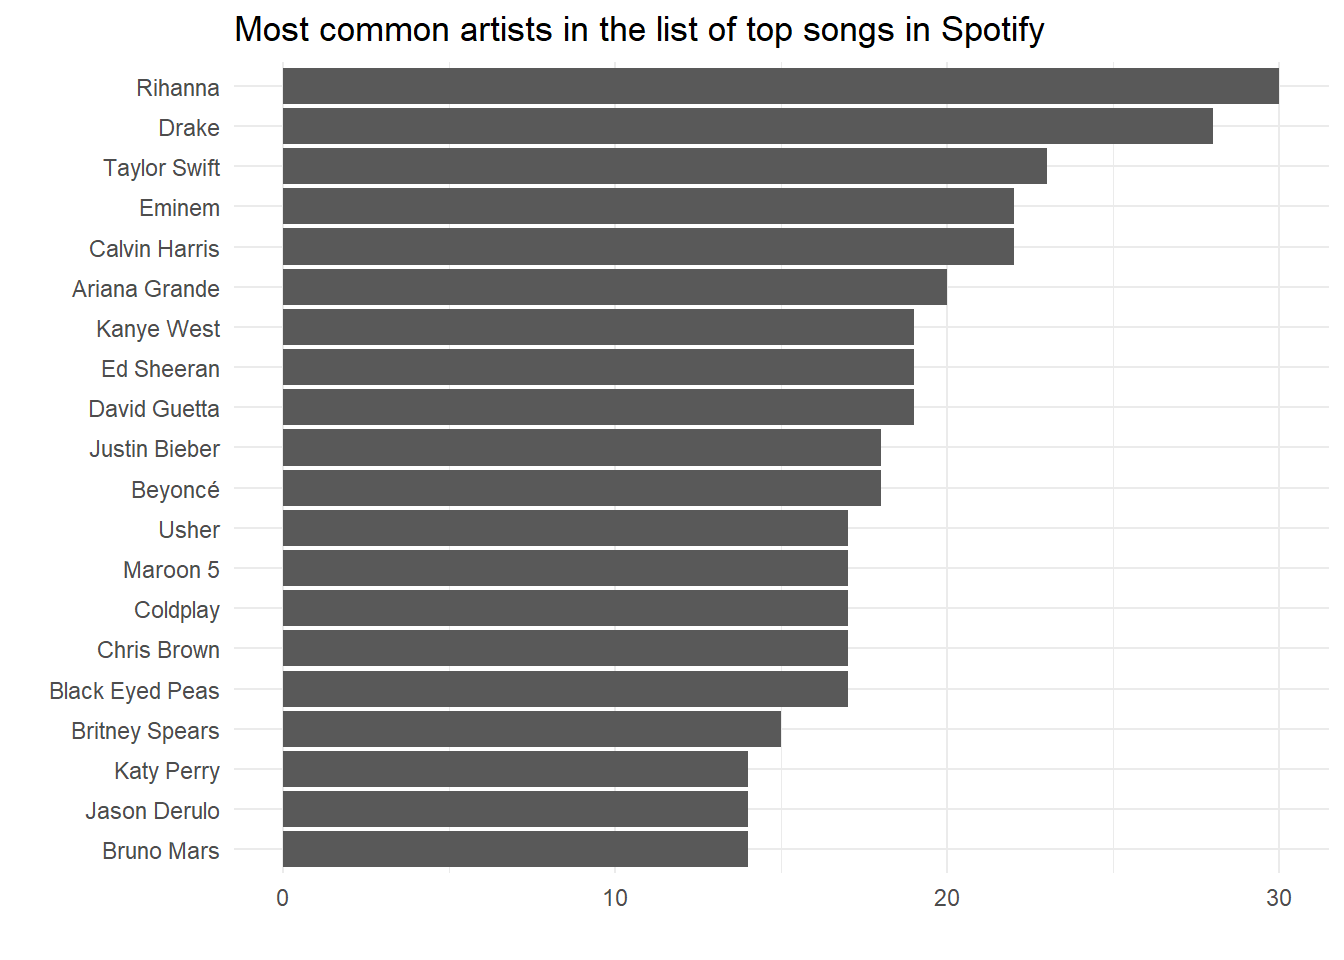
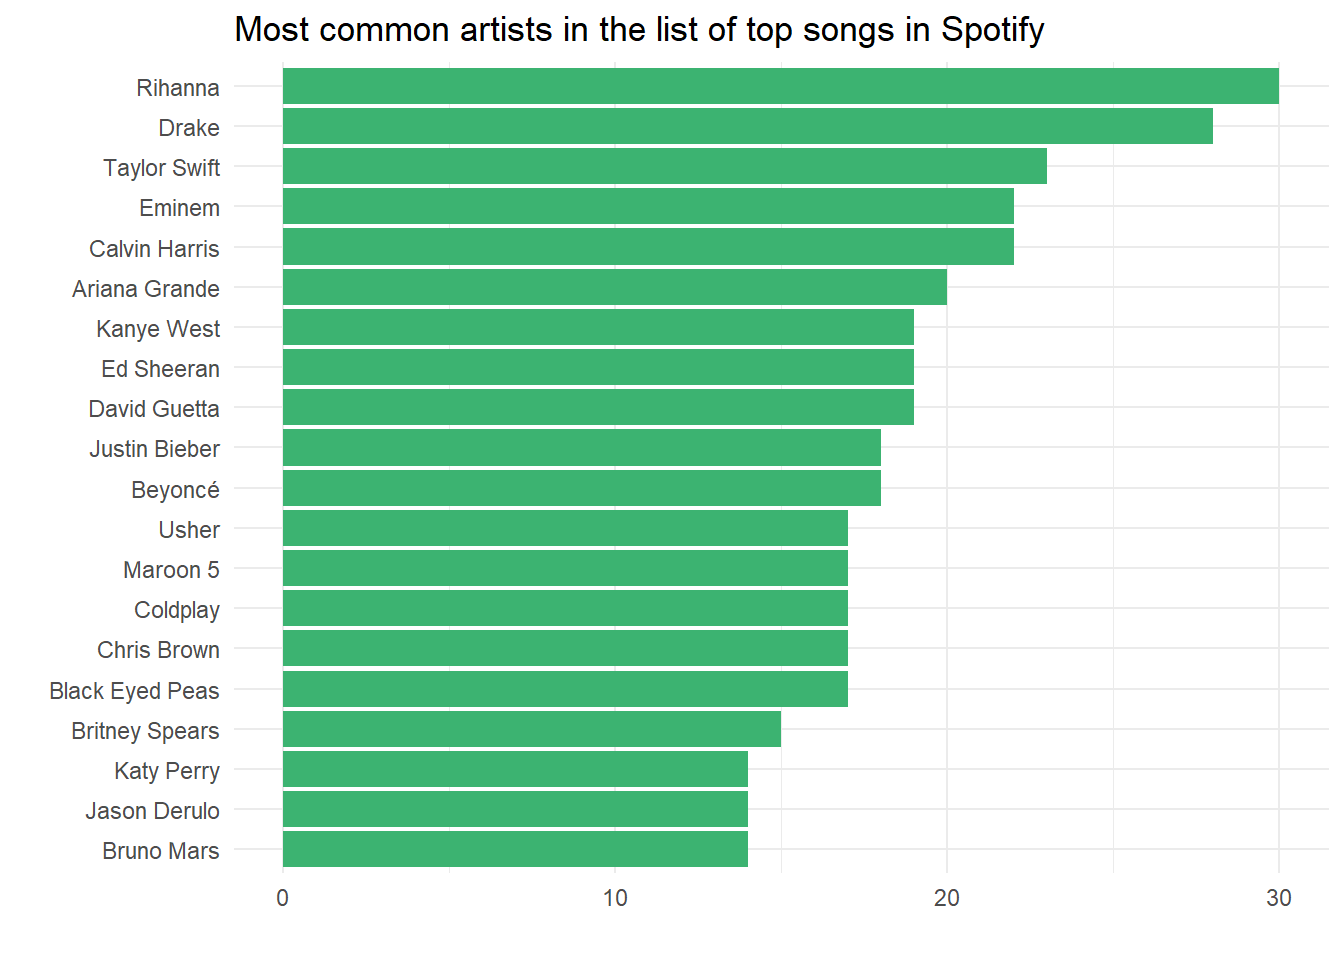
Added correlation matrix and rearranged contents

diff --git a/_site/eda.html b/_site/eda.html
@@ -150,18 +150,21 @@ pre > code.sourceCode > span > a:first-child::before { text-decoration: underlin
     <h2 id="toc-title">On this page</h2>
    
   <ul>
-  <li><a href="#introduction-and-data" id="toc-introduction-and-data" class="nav-link active" data-scroll-target="#introduction-and-data">Introduction and data</a>
+  <li><a href="#introduction-to-data" id="toc-introduction-to-data" class="nav-link active" data-scroll-target="#introduction-to-data">Introduction to data</a>
   <ul class="collapse">
-  <li><a href="#description-of-data" id="toc-description-of-data" class="nav-link" data-scroll-target="#description-of-data">Description of data</a></li>
+  <li><a href="#description-of-data" id="toc-description-of-data" class="nav-link" data-scroll-target="#description-of-data">Description of data</a>
+  <ul class="collapse">
   <li><a href="#glimpse-of-data" id="toc-glimpse-of-data" class="nav-link" data-scroll-target="#glimpse-of-data">Glimpse of data</a></li>
+  </ul></li>
   </ul></li>
   <li><a href="#exploratory-data-analysis" id="toc-exploratory-data-analysis" class="nav-link" data-scroll-target="#exploratory-data-analysis">Exploratory data analysis</a>
   <ul class="collapse">
-  <li><a href="#top-artists" id="toc-top-artists" class="nav-link" data-scroll-target="#top-artists">Top artists</a></li>
-  <li><a href="#top-genres" id="toc-top-genres" class="nav-link" data-scroll-target="#top-genres">Top genres</a></li>
-  <li><a href="#most-common-words-in-titles" id="toc-most-common-words-in-titles" class="nav-link" data-scroll-target="#most-common-words-in-titles">Most common words in titles</a></li>
+  <li><a href="#tldr" id="toc-tldr" class="nav-link" data-scroll-target="#tldr">TL;DR</a></li>
+  <li><a href="#frequency-of-artist-appearance" id="toc-frequency-of-artist-appearance" class="nav-link" data-scroll-target="#frequency-of-artist-appearance">Frequency of artist appearance</a></li>
+  <li><a href="#top-song-genres" id="toc-top-song-genres" class="nav-link" data-scroll-target="#top-song-genres">Top song genres</a></li>
+  <li><a href="#most-common-words-in-song-titles" id="toc-most-common-words-in-song-titles" class="nav-link" data-scroll-target="#most-common-words-in-song-titles">Most common words in song titles</a></li>
   <li><a href="#distribution-of-year" id="toc-distribution-of-year" class="nav-link" data-scroll-target="#distribution-of-year">Distribution of year</a></li>
-  <li><a href="#distribution-of-metrics" id="toc-distribution-of-metrics" class="nav-link" data-scroll-target="#distribution-of-metrics">Distribution of metrics</a></li>
+  <li><a href="#distribution-of-song-metrics" id="toc-distribution-of-song-metrics" class="nav-link" data-scroll-target="#distribution-of-song-metrics">Distribution of song metrics</a></li>
   </ul></li>
   <li><a href="#data-limitations" id="toc-data-limitations" class="nav-link" data-scroll-target="#data-limitations">Data limitations</a></li>
   </ul>
@@ -188,18 +191,21 @@ pre > code.sourceCode > span > a:first-child::before { text-decoration: underlin
 </header>
 
 <div class="cell">
-<div class="sourceCode cell-code" id="cb1"><pre class="sourceCode r code-with-copy"><code class="sourceCode r"><span id="cb1-1"><a href="#cb1-1" aria-hidden="true" tabindex="-1"></a><span class="fu">library</span>(tidyverse)</span>
-<span id="cb1-2"><a href="#cb1-2" aria-hidden="true" tabindex="-1"></a><span class="fu">library</span>(skimr)</span>
-<span id="cb1-3"><a href="#cb1-3" aria-hidden="true" tabindex="-1"></a></span>
-<span id="cb1-4"><a href="#cb1-4" aria-hidden="true" tabindex="-1"></a><span class="fu">theme_set</span>(<span class="fu">theme_minimal</span>())</span></code><button title="Copy to Clipboard" class="code-copy-button"><i class="bi"></i></button></pre></div>
+<div class="sourceCode cell-code" id="cb1"><pre class="sourceCode r code-with-copy"><code class="sourceCode r"><span id="cb1-1"><a href="#cb1-1" aria-hidden="true" tabindex="-1"></a><span class="co"># Load relevant packages</span></span>
+<span id="cb1-2"><a href="#cb1-2" aria-hidden="true" tabindex="-1"></a><span class="fu">library</span>(tidyverse)</span>
+<span id="cb1-3"><a href="#cb1-3" aria-hidden="true" tabindex="-1"></a><span class="fu">library</span>(skimr)</span>
+<span id="cb1-4"><a href="#cb1-4" aria-hidden="true" tabindex="-1"></a><span class="fu">library</span>(corrplot)</span>
+<span id="cb1-5"><a href="#cb1-5" aria-hidden="true" tabindex="-1"></a></span>
+<span id="cb1-6"><a href="#cb1-6" aria-hidden="true" tabindex="-1"></a><span class="co"># Set minimalistic theme</span></span>
+<span id="cb1-7"><a href="#cb1-7" aria-hidden="true" tabindex="-1"></a><span class="fu">theme_set</span>(<span class="fu">theme_minimal</span>())</span></code><button title="Copy to Clipboard" class="code-copy-button"><i class="bi"></i></button></pre></div>
 </div>
-<section id="introduction-and-data" class="level2">
-<h2 class="anchored" data-anchor-id="introduction-and-data">Introduction and data</h2>
-<section id="description-of-data" class="level3">
-<h3 class="anchored" data-anchor-id="description-of-data">Description of data</h3>
+<section id="introduction-to-data" class="level1">
+<h1>Introduction to data</h1>
+<section id="description-of-data" class="level2">
+<h2 class="anchored" data-anchor-id="description-of-data">Description of data</h2>
 <p>We will be analyzing the top 100 songs on Spotify every year, from 2000 - 2023.</p>
 <p>The dataset was taken from Kaggle. The data was extracted by Conor Van Eden using Organize Your Music. More details <a href="https://www.kaggle.com/datasets/conorvaneden/best-songs-on-spotify-for-every-year-2000-2023?resource=download">here</a>.</p>
-</section>
+<p>No private information is being used: everything is public information. Furthermore, not much preprocessing was done (or explained) on the data.</p>
 <section id="glimpse-of-data" class="level3">
 <h3 class="anchored" data-anchor-id="glimpse-of-data">Glimpse of data</h3>
 <p>Let’s take a look at the dataset using <code>skim</code>.</p>
@@ -488,10 +494,14 @@ pre > code.sourceCode > span > a:first-child::before { text-decoration: underlin
 <p>We see that we have data on 14 variables: three are character-type and 11 are numeric-type. We have access to some basic information about the songs, including artist, release year, and genre, as well as some metrics, including <code>danceability</code> and <code>speechiness</code>.</p>
 </section>
 </section>
-<section id="exploratory-data-analysis" class="level2">
-<h2 class="anchored" data-anchor-id="exploratory-data-analysis">Exploratory data analysis</h2>
-<section id="top-artists" class="level3">
-<h3 class="anchored" data-anchor-id="top-artists">Top artists</h3>
+</section>
+<section id="exploratory-data-analysis" class="level1">
+<h1>Exploratory data analysis</h1>
+<section id="tldr" class="level2">
+<h2 class="anchored" data-anchor-id="tldr">TL;DR</h2>
+</section>
+<section id="frequency-of-artist-appearance" class="level2">
+<h2 class="anchored" data-anchor-id="frequency-of-artist-appearance">Frequency of artist appearance</h2>
 <div class="cell">
 <div class="sourceCode cell-code" id="cb3"><pre class="sourceCode r code-with-copy"><code class="sourceCode r"><span id="cb3-1"><a href="#cb3-1" aria-hidden="true" tabindex="-1"></a>top_artists <span class="ot">&lt;-</span> songs <span class="sc">%&gt;%</span> </span>
 <span id="cb3-2"><a href="#cb3-2" aria-hidden="true" tabindex="-1"></a>  <span class="fu">group_by</span>(artist) <span class="sc">%&gt;%</span> </span>
@@ -501,7 +511,7 @@ pre > code.sourceCode > span > a:first-child::before { text-decoration: underlin
 <span id="cb3-6"><a href="#cb3-6" aria-hidden="true" tabindex="-1"></a></span>
 <span id="cb3-7"><a href="#cb3-7" aria-hidden="true" tabindex="-1"></a>top_artists <span class="sc">%&gt;%</span> </span>
 <span id="cb3-8"><a href="#cb3-8" aria-hidden="true" tabindex="-1"></a>  <span class="fu">ggplot</span>(<span class="fu">aes</span>(<span class="at">y =</span> <span class="fu">fct_reorder</span>(artist, n), <span class="at">x =</span> n)) <span class="sc">+</span></span>
-<span id="cb3-9"><a href="#cb3-9" aria-hidden="true" tabindex="-1"></a>  <span class="fu">geom_bar</span>(<span class="at">stat =</span> <span class="st">"identity"</span>) <span class="sc">+</span></span>
+<span id="cb3-9"><a href="#cb3-9" aria-hidden="true" tabindex="-1"></a>  <span class="fu">geom_bar</span>(<span class="at">stat =</span> <span class="st">"identity"</span>, <span class="at">fill =</span> <span class="st">"mediumseagreen"</span>) <span class="sc">+</span></span>
 <span id="cb3-10"><a href="#cb3-10" aria-hidden="true" tabindex="-1"></a>  <span class="fu">labs</span>(</span>
 <span id="cb3-11"><a href="#cb3-11" aria-hidden="true" tabindex="-1"></a>    <span class="at">title =</span> <span class="st">"Most common artists in the list of top songs in Spotify"</span>,</span>
 <span id="cb3-12"><a href="#cb3-12" aria-hidden="true" tabindex="-1"></a>    <span class="at">y =</span> <span class="st">""</span>,</span>
@@ -512,7 +522,7 @@ pre > code.sourceCode > span > a:first-child::before { text-decoration: underlin
 <p><img src="eda_files/figure-html/unnamed-chunk-3-1.png" class="img-fluid" width="672"></p>
 </div>
 </div>
-<p>We see that Rihanna, Drake, and Taylor Swift are the three artists with the most mentions. Here, mention refers to having a song categorized as “top” on Spotify in the 2003-2023 period. It is important to note that one song can be mentioned as “top” multiple times. As seen below, Rihanna’s Diamonds and Taylor Swift’s I Knew You Were Trouble were made it to the list of top songs twice.</p>
+<p>We see that Rihanna, Drake, and Taylor Swift are the three artists with the most mentions. Here, a mention refers to having a song categorized as “top” on Spotify in the 2003-2023 period. It is important to note that one song can be mentioned as “top” multiple times. As seen below, Rihanna’s Diamonds and Taylor Swift’s I Knew You Were Trouble were made it to the list of top songs twice.</p>
 <div class="cell">
 <div class="sourceCode cell-code" id="cb4"><pre class="sourceCode r code-with-copy"><code class="sourceCode r"><span id="cb4-1"><a href="#cb4-1" aria-hidden="true" tabindex="-1"></a>songs <span class="sc">%&gt;%</span> </span>
 <span id="cb4-2"><a href="#cb4-2" aria-hidden="true" tabindex="-1"></a>  <span class="fu">filter</span>(artist <span class="sc">%in%</span> <span class="fu">c</span>(<span class="st">"Rihanna"</span>, <span class="st">"Drake"</span>, <span class="st">"Taylor Swift"</span>)) <span class="sc">%&gt;%</span> </span>
@@ -534,8 +544,8 @@ pre > code.sourceCode > span > a:first-child::before { text-decoration: underlin
 </div>
 </div>
 </section>
-<section id="top-genres" class="level3">
-<h3 class="anchored" data-anchor-id="top-genres">Top genres</h3>
+<section id="top-song-genres" class="level2">
+<h2 class="anchored" data-anchor-id="top-song-genres">Top song genres</h2>
 <div class="cell">
 <div class="sourceCode cell-code" id="cb6"><pre class="sourceCode r code-with-copy"><code class="sourceCode r"><span id="cb6-1"><a href="#cb6-1" aria-hidden="true" tabindex="-1"></a>songs <span class="sc">%&gt;%</span> </span>
 <span id="cb6-2"><a href="#cb6-2" aria-hidden="true" tabindex="-1"></a>  <span class="fu">group_by</span>(<span class="st">`</span><span class="at">top genre</span><span class="st">`</span>) <span class="sc">%&gt;%</span> </span>
@@ -543,7 +553,7 @@ pre > code.sourceCode > span > a:first-child::before { text-decoration: underlin
 <span id="cb6-4"><a href="#cb6-4" aria-hidden="true" tabindex="-1"></a>  <span class="fu">arrange</span>(<span class="fu">desc</span>(n)) <span class="sc">%&gt;%</span> </span>
 <span id="cb6-5"><a href="#cb6-5" aria-hidden="true" tabindex="-1"></a>  <span class="fu">head</span>(<span class="dv">20</span>) <span class="sc">%&gt;%</span> </span>
 <span id="cb6-6"><a href="#cb6-6" aria-hidden="true" tabindex="-1"></a>  <span class="fu">ggplot</span>(<span class="fu">aes</span>(<span class="at">y =</span> <span class="fu">fct_reorder</span>(<span class="st">`</span><span class="at">top genre</span><span class="st">`</span>, n), <span class="at">x =</span> n)) <span class="sc">+</span></span>
-<span id="cb6-7"><a href="#cb6-7" aria-hidden="true" tabindex="-1"></a>  <span class="fu">geom_bar</span>(<span class="at">stat =</span> <span class="st">"identity"</span>) <span class="sc">+</span></span>
+<span id="cb6-7"><a href="#cb6-7" aria-hidden="true" tabindex="-1"></a>  <span class="fu">geom_bar</span>(<span class="at">stat =</span> <span class="st">"identity"</span>, <span class="at">fill =</span> <span class="st">"mediumseagreen"</span>) <span class="sc">+</span></span>
 <span id="cb6-8"><a href="#cb6-8" aria-hidden="true" tabindex="-1"></a>  <span class="fu">labs</span>(</span>
 <span id="cb6-9"><a href="#cb6-9" aria-hidden="true" tabindex="-1"></a>    <span class="at">title =</span> <span class="st">"Most common genres in the list of top songs in Spotify"</span>,</span>
 <span id="cb6-10"><a href="#cb6-10" aria-hidden="true" tabindex="-1"></a>    <span class="at">y =</span> <span class="st">""</span>,</span>
@@ -556,8 +566,8 @@ pre > code.sourceCode > span > a:first-child::before { text-decoration: underlin
 </div>
 <p>We see that “dance pop” and “pop” are the two most common genres within top songs by a large margin. It might be intersting to see what kind of variations exist withing these two genres when it comes to other song metrics like <code>danceability</code> and <code>valence</code>.</p>
 </section>
-<section id="most-common-words-in-titles" class="level3">
-<h3 class="anchored" data-anchor-id="most-common-words-in-titles">Most common words in titles</h3>
+<section id="most-common-words-in-song-titles" class="level2">
+<h2 class="anchored" data-anchor-id="most-common-words-in-song-titles">Most common words in song titles</h2>
 <div class="cell">
 <div class="sourceCode cell-code" id="cb7"><pre class="sourceCode r code-with-copy"><code class="sourceCode r"><span id="cb7-1"><a href="#cb7-1" aria-hidden="true" tabindex="-1"></a>songs <span class="sc">%&gt;%</span> </span>
 <span id="cb7-2"><a href="#cb7-2" aria-hidden="true" tabindex="-1"></a>  <span class="fu">select</span>(title) <span class="sc">%&gt;%</span> </span>
@@ -571,27 +581,33 @@ pre > code.sourceCode > span > a:first-child::before { text-decoration: underlin
 <span id="cb7-10"><a href="#cb7-10" aria-hidden="true" tabindex="-1"></a>  <span class="fu">arrange</span>(<span class="fu">desc</span>(n)) <span class="sc">%&gt;%</span> </span>
 <span id="cb7-11"><a href="#cb7-11" aria-hidden="true" tabindex="-1"></a>  <span class="fu">head</span>(<span class="dv">30</span>) <span class="sc">%&gt;%</span> </span>
 <span id="cb7-12"><a href="#cb7-12" aria-hidden="true" tabindex="-1"></a>  <span class="fu">ggplot</span>(<span class="fu">aes</span>(<span class="at">y =</span> <span class="fu">fct_reorder</span>(title, n), <span class="at">x =</span> n)) <span class="sc">+</span></span>
-<span id="cb7-13"><a href="#cb7-13" aria-hidden="true" tabindex="-1"></a>  <span class="fu">geom_bar</span>(<span class="at">stat =</span> <span class="st">"identity"</span>)</span></code><button title="Copy to Clipboard" class="code-copy-button"><i class="bi"></i></button></pre></div>
+<span id="cb7-13"><a href="#cb7-13" aria-hidden="true" tabindex="-1"></a>  <span class="fu">geom_bar</span>(<span class="at">stat =</span> <span class="st">"identity"</span>, <span class="at">fill =</span> <span class="st">"mediumseagreen"</span>) <span class="sc">+</span></span>
+<span id="cb7-14"><a href="#cb7-14" aria-hidden="true" tabindex="-1"></a>  <span class="fu">labs</span>(</span>
+<span id="cb7-15"><a href="#cb7-15" aria-hidden="true" tabindex="-1"></a>    <span class="at">x =</span> <span class="st">""</span>,</span>
+<span id="cb7-16"><a href="#cb7-16" aria-hidden="true" tabindex="-1"></a>    <span class="at">y =</span> <span class="st">"Word"</span>,</span>
+<span id="cb7-17"><a href="#cb7-17" aria-hidden="true" tabindex="-1"></a>    <span class="at">title =</span> <span class="st">"Most common words found in song titles"</span></span>
+<span id="cb7-18"><a href="#cb7-18" aria-hidden="true" tabindex="-1"></a>  )</span></code><button title="Copy to Clipboard" class="code-copy-button"><i class="bi"></i></button></pre></div>
 <div class="cell-output-display">
 <p><img src="eda_files/figure-html/unnamed-chunk-6-1.png" class="img-fluid" width="672"></p>
 </div>
 </div>
 <p>We see that the word “feat” is very common - we love to see collaboration! Furthermore, we also see that the word “you,” “me,” and “love” are pretty common. It might be interesting to analyze this further.</p>
 </section>
-<section id="distribution-of-year" class="level3">
-<h3 class="anchored" data-anchor-id="distribution-of-year">Distribution of year</h3>
+<section id="distribution-of-year" class="level2">
+<h2 class="anchored" data-anchor-id="distribution-of-year">Distribution of year</h2>
 <div class="cell">
 <div class="sourceCode cell-code" id="cb8"><pre class="sourceCode r code-with-copy"><code class="sourceCode r"><span id="cb8-1"><a href="#cb8-1" aria-hidden="true" tabindex="-1"></a>songs <span class="sc">%&gt;%</span> </span>
 <span id="cb8-2"><a href="#cb8-2" aria-hidden="true" tabindex="-1"></a>  <span class="fu">ggplot</span>(<span class="fu">aes</span>(<span class="at">x =</span> year)) <span class="sc">+</span></span>
-<span id="cb8-3"><a href="#cb8-3" aria-hidden="true" tabindex="-1"></a>  <span class="fu">geom_histogram</span>() <span class="sc">+</span></span>
+<span id="cb8-3"><a href="#cb8-3" aria-hidden="true" tabindex="-1"></a>  <span class="fu">geom_histogram</span>(<span class="at">fill =</span> <span class="st">"mediumseagreen"</span>) <span class="sc">+</span></span>
 <span id="cb8-4"><a href="#cb8-4" aria-hidden="true" tabindex="-1"></a>  <span class="fu">theme_minimal</span>()</span></code><button title="Copy to Clipboard" class="code-copy-button"><i class="bi"></i></button></pre></div>
 <div class="cell-output-display">
 <p><img src="eda_files/figure-html/unnamed-chunk-7-1.png" class="img-fluid" width="672"></p>
 </div>
 </div>
+<p>We see that there is a somewhat symmetric distribution when it comes to the release years of top songs. However, we see some “spikes” around 2004, 2007, 2011, and 2016. It might be interesting to dive deeper to see reasons for these “spikes.”</p>
 </section>
-<section id="distribution-of-metrics" class="level3">
-<h3 class="anchored" data-anchor-id="distribution-of-metrics">Distribution of metrics</h3>
+<section id="distribution-of-song-metrics" class="level2">
+<h2 class="anchored" data-anchor-id="distribution-of-song-metrics">Distribution of song metrics</h2>
 <div class="cell">
 <div class="sourceCode cell-code" id="cb9"><pre class="sourceCode r code-with-copy"><code class="sourceCode r"><span id="cb9-1"><a href="#cb9-1" aria-hidden="true" tabindex="-1"></a>songs <span class="sc">%&gt;%</span> </span>
 <span id="cb9-2"><a href="#cb9-2" aria-hidden="true" tabindex="-1"></a>  <span class="fu">select</span>(title, bpm, energy, danceability, dB, liveness, valence, duration, acousticness, speechiness, popularity) <span class="sc">%&gt;%</span> </span>
@@ -601,7 +617,7 @@ pre > code.sourceCode > span > a:first-child::before { text-decoration: underlin
 <span id="cb9-6"><a href="#cb9-6" aria-hidden="true" tabindex="-1"></a>    <span class="at">values_to =</span> <span class="st">"value"</span></span>
 <span id="cb9-7"><a href="#cb9-7" aria-hidden="true" tabindex="-1"></a>  ) <span class="sc">%&gt;%</span> </span>
 <span id="cb9-8"><a href="#cb9-8" aria-hidden="true" tabindex="-1"></a>  <span class="fu">ggplot</span>(<span class="fu">aes</span>(<span class="at">x =</span> value)) <span class="sc">+</span></span>
-<span id="cb9-9"><a href="#cb9-9" aria-hidden="true" tabindex="-1"></a>  <span class="fu">geom_histogram</span>() <span class="sc">+</span></span>
+<span id="cb9-9"><a href="#cb9-9" aria-hidden="true" tabindex="-1"></a>  <span class="fu">geom_histogram</span>(<span class="at">fill =</span> <span class="st">"mediumseagreen"</span>) <span class="sc">+</span></span>
 <span id="cb9-10"><a href="#cb9-10" aria-hidden="true" tabindex="-1"></a>  <span class="fu">facet_wrap</span>(<span class="fu">vars</span>(metric), <span class="at">scales =</span> <span class="st">"free"</span>) <span class="sc">+</span></span>
 <span id="cb9-11"><a href="#cb9-11" aria-hidden="true" tabindex="-1"></a>  <span class="fu">labs</span>(</span>
 <span id="cb9-12"><a href="#cb9-12" aria-hidden="true" tabindex="-1"></a>    <span class="at">x =</span> <span class="st">"Metric"</span>,</span>
@@ -611,36 +627,50 @@ pre > code.sourceCode > span > a:first-child::before { text-decoration: underlin
 <p><img src="eda_files/figure-html/unnamed-chunk-8-1.png" class="img-fluid" width="672"></p>
 </div>
 </div>
-</section>
-</section>
-<section id="data-limitations" class="level2">
-<h2 class="anchored" data-anchor-id="data-limitations">Data limitations</h2>
+<p>Some observations:</p>
 <ul>
-<li>No indication of which year the song is “top” for.</li>
+<li><p><code>acousticness</code> demonstrates a heavily right-skewed distribution.</p></li>
+<li><p><code>duration</code> is centered at around 220 seconds, which means most songs are around the 3-4 minutes range.</p></li>
+<li><p><code>danceability</code> showcases a symmetric distribution centred at score 70.</p></li>
 </ul>
 <div class="cell">
-<div class="sourceCode cell-code" id="cb10"><pre class="sourceCode r code-with-copy"><code class="sourceCode r"><span id="cb10-1"><a href="#cb10-1" aria-hidden="true" tabindex="-1"></a>songs <span class="sc">%&gt;%</span> </span>
-<span id="cb10-2"><a href="#cb10-2" aria-hidden="true" tabindex="-1"></a>  <span class="fu">group_by</span>(title) <span class="sc">%&gt;%</span> </span>
-<span id="cb10-3"><a href="#cb10-3" aria-hidden="true" tabindex="-1"></a>  <span class="fu">count</span>() <span class="sc">%&gt;%</span> </span>
-<span id="cb10-4"><a href="#cb10-4" aria-hidden="true" tabindex="-1"></a>  <span class="fu">arrange</span>(<span class="fu">desc</span>(n))</span></code><button title="Copy to Clipboard" class="code-copy-button"><i class="bi"></i></button></pre></div>
+<div class="sourceCode cell-code" id="cb10"><pre class="sourceCode r code-with-copy"><code class="sourceCode r"><span id="cb10-1"><a href="#cb10-1" aria-hidden="true" tabindex="-1"></a>songs <span class="sc">%&gt;%</span> <span class="fu">select</span>(year, bpm, energy,</span>
+<span id="cb10-2"><a href="#cb10-2" aria-hidden="true" tabindex="-1"></a>         danceability, dB, liveness, </span>
+<span id="cb10-3"><a href="#cb10-3" aria-hidden="true" tabindex="-1"></a>         valence, duration, acousticness,</span>
+<span id="cb10-4"><a href="#cb10-4" aria-hidden="true" tabindex="-1"></a>         speechiness, popularity) <span class="sc">%&gt;%</span> </span>
+<span id="cb10-5"><a href="#cb10-5" aria-hidden="true" tabindex="-1"></a>  <span class="fu">cor</span>() <span class="sc">%&gt;%</span> </span>
+<span id="cb10-6"><a href="#cb10-6" aria-hidden="true" tabindex="-1"></a>  <span class="fu">corrplot</span>()</span></code><button title="Copy to Clipboard" class="code-copy-button"><i class="bi"></i></button></pre></div>
+<div class="cell-output-display">
+<p><img src="eda_files/figure-html/unnamed-chunk-9-1.png" class="img-fluid" width="672"></p>
+</div>
+</div>
+</section>
+</section>
+<section id="data-limitations" class="level1">
+<h1>Data limitations</h1>
+<p>Our dataset provides a lot of information on each song, but there are certain limitations.</p>
+<ul>
+<li>There is no indication of which year a song is “top” for. Below, we see the song “Sorry” is appears five times in our dataset. But, what years were these in? 2005? 2010?</li>
+</ul>
+<div class="cell">
+<div class="sourceCode cell-code" id="cb11"><pre class="sourceCode r code-with-copy"><code class="sourceCode r"><span id="cb11-1"><a href="#cb11-1" aria-hidden="true" tabindex="-1"></a>songs <span class="sc">%&gt;%</span> </span>
+<span id="cb11-2"><a href="#cb11-2" aria-hidden="true" tabindex="-1"></a>  <span class="fu">group_by</span>(title) <span class="sc">%&gt;%</span> </span>
+<span id="cb11-3"><a href="#cb11-3" aria-hidden="true" tabindex="-1"></a>  <span class="fu">count</span>() <span class="sc">%&gt;%</span> </span>
+<span id="cb11-4"><a href="#cb11-4" aria-hidden="true" tabindex="-1"></a>  <span class="fu">arrange</span>(<span class="fu">desc</span>(n)) <span class="sc">%&gt;%</span> </span>
+<span id="cb11-5"><a href="#cb11-5" aria-hidden="true" tabindex="-1"></a>  <span class="fu">head</span>(<span class="dv">3</span>)</span></code><button title="Copy to Clipboard" class="code-copy-button"><i class="bi"></i></button></pre></div>
 <div class="cell-output cell-output-stdout">
-<pre><code># A tibble: 2,261 × 2
-# Groups:   title [2,261]
-   title              n
-   &lt;chr&gt;          &lt;int&gt;
- 1 Sorry              5
- 2 Beautiful          3
- 3 Burn               3
- 4 Counting Stars     3
- 5 Faded              3
- 6 Higher             3
- 7 I Like It          3
- 8 Mercy              3
- 9 One Call Away      3
-10 Angel              2
-# ℹ 2,251 more rows</code></pre>
+<pre><code># A tibble: 3 × 2
+# Groups:   title [3]
+  title         n
+  &lt;chr&gt;     &lt;int&gt;
+1 Sorry         5
+2 Beautiful     3
+3 Burn          3</code></pre>
 </div>
 </div>
+<ul>
+<li>We do not have access to the song lyrics. If we did, we could so some text analysis to determine correlations between lyrics and popularity.</li>
+</ul>
 
 
 </section>
